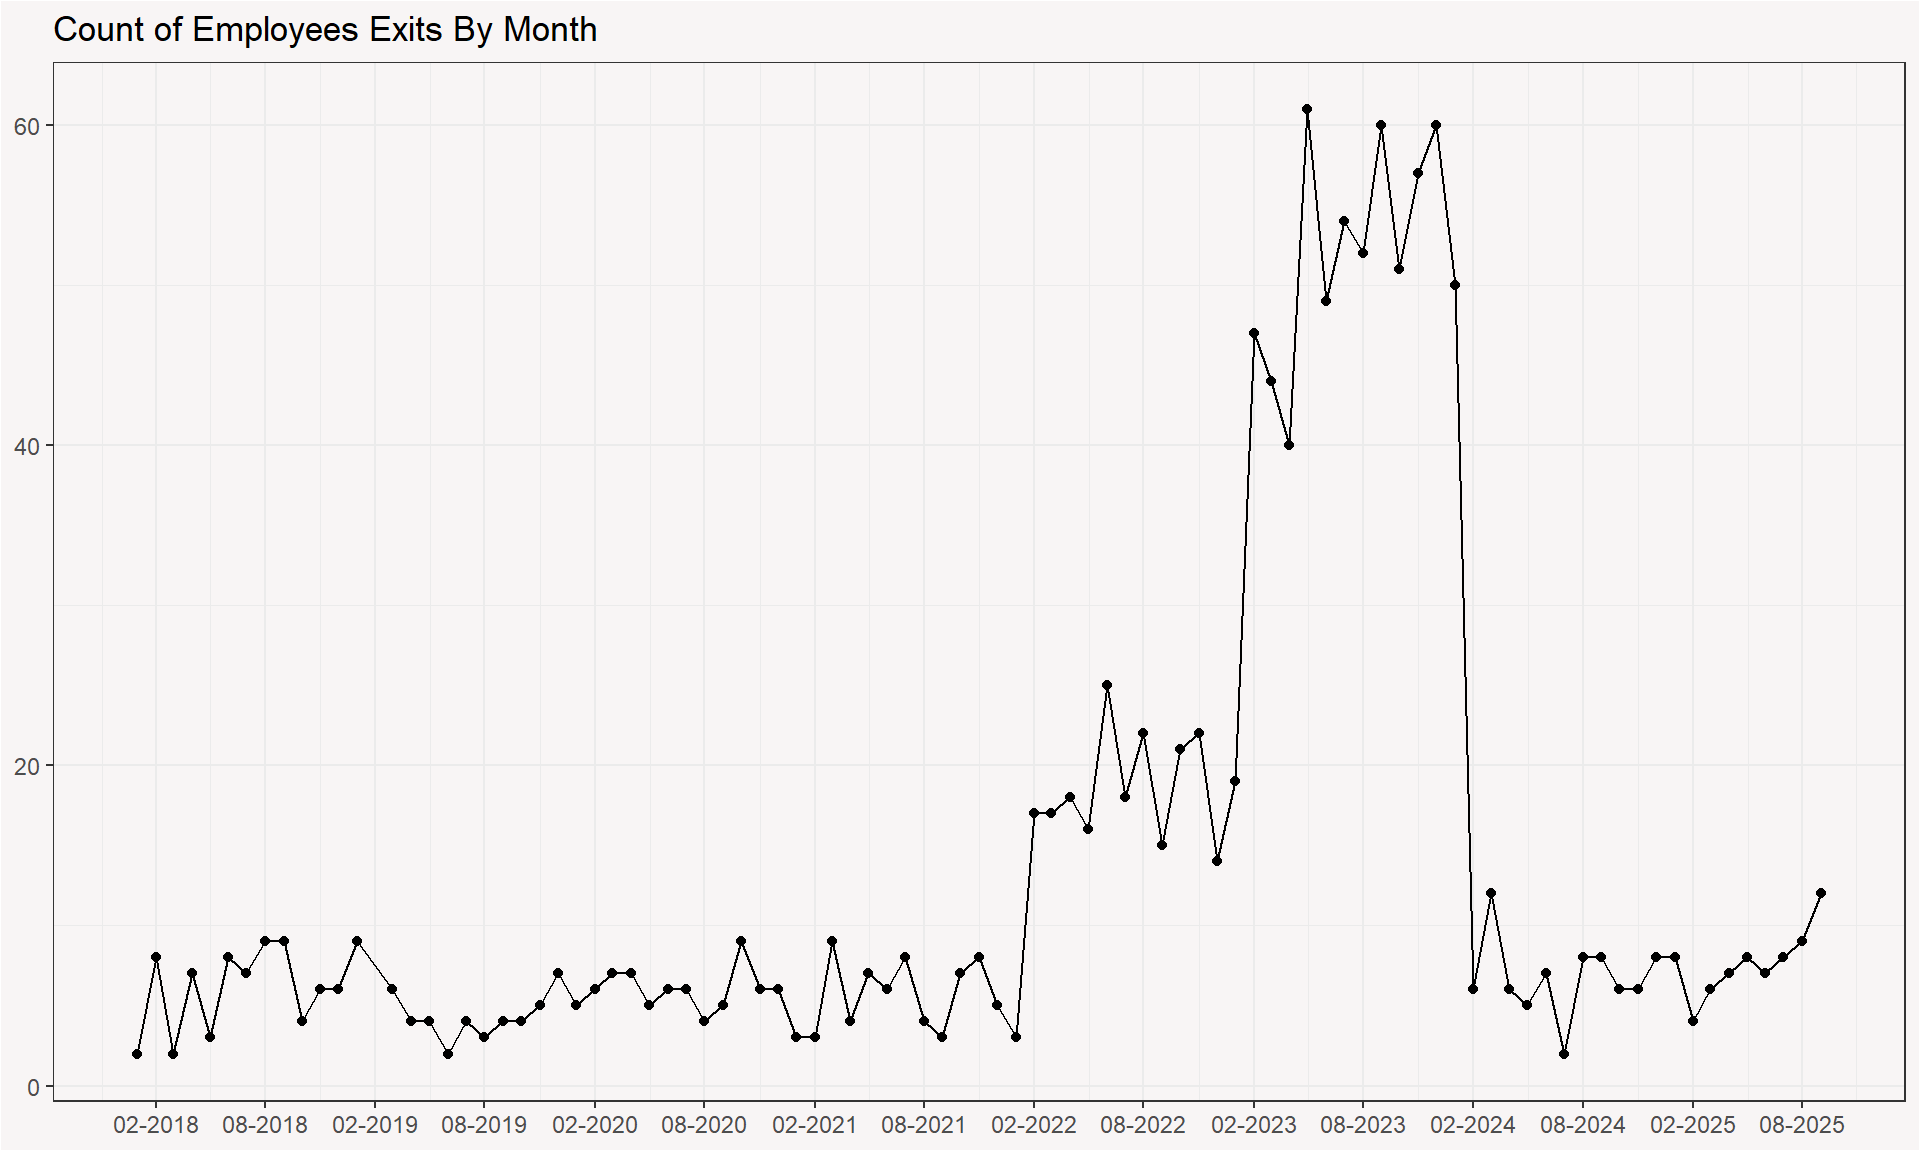
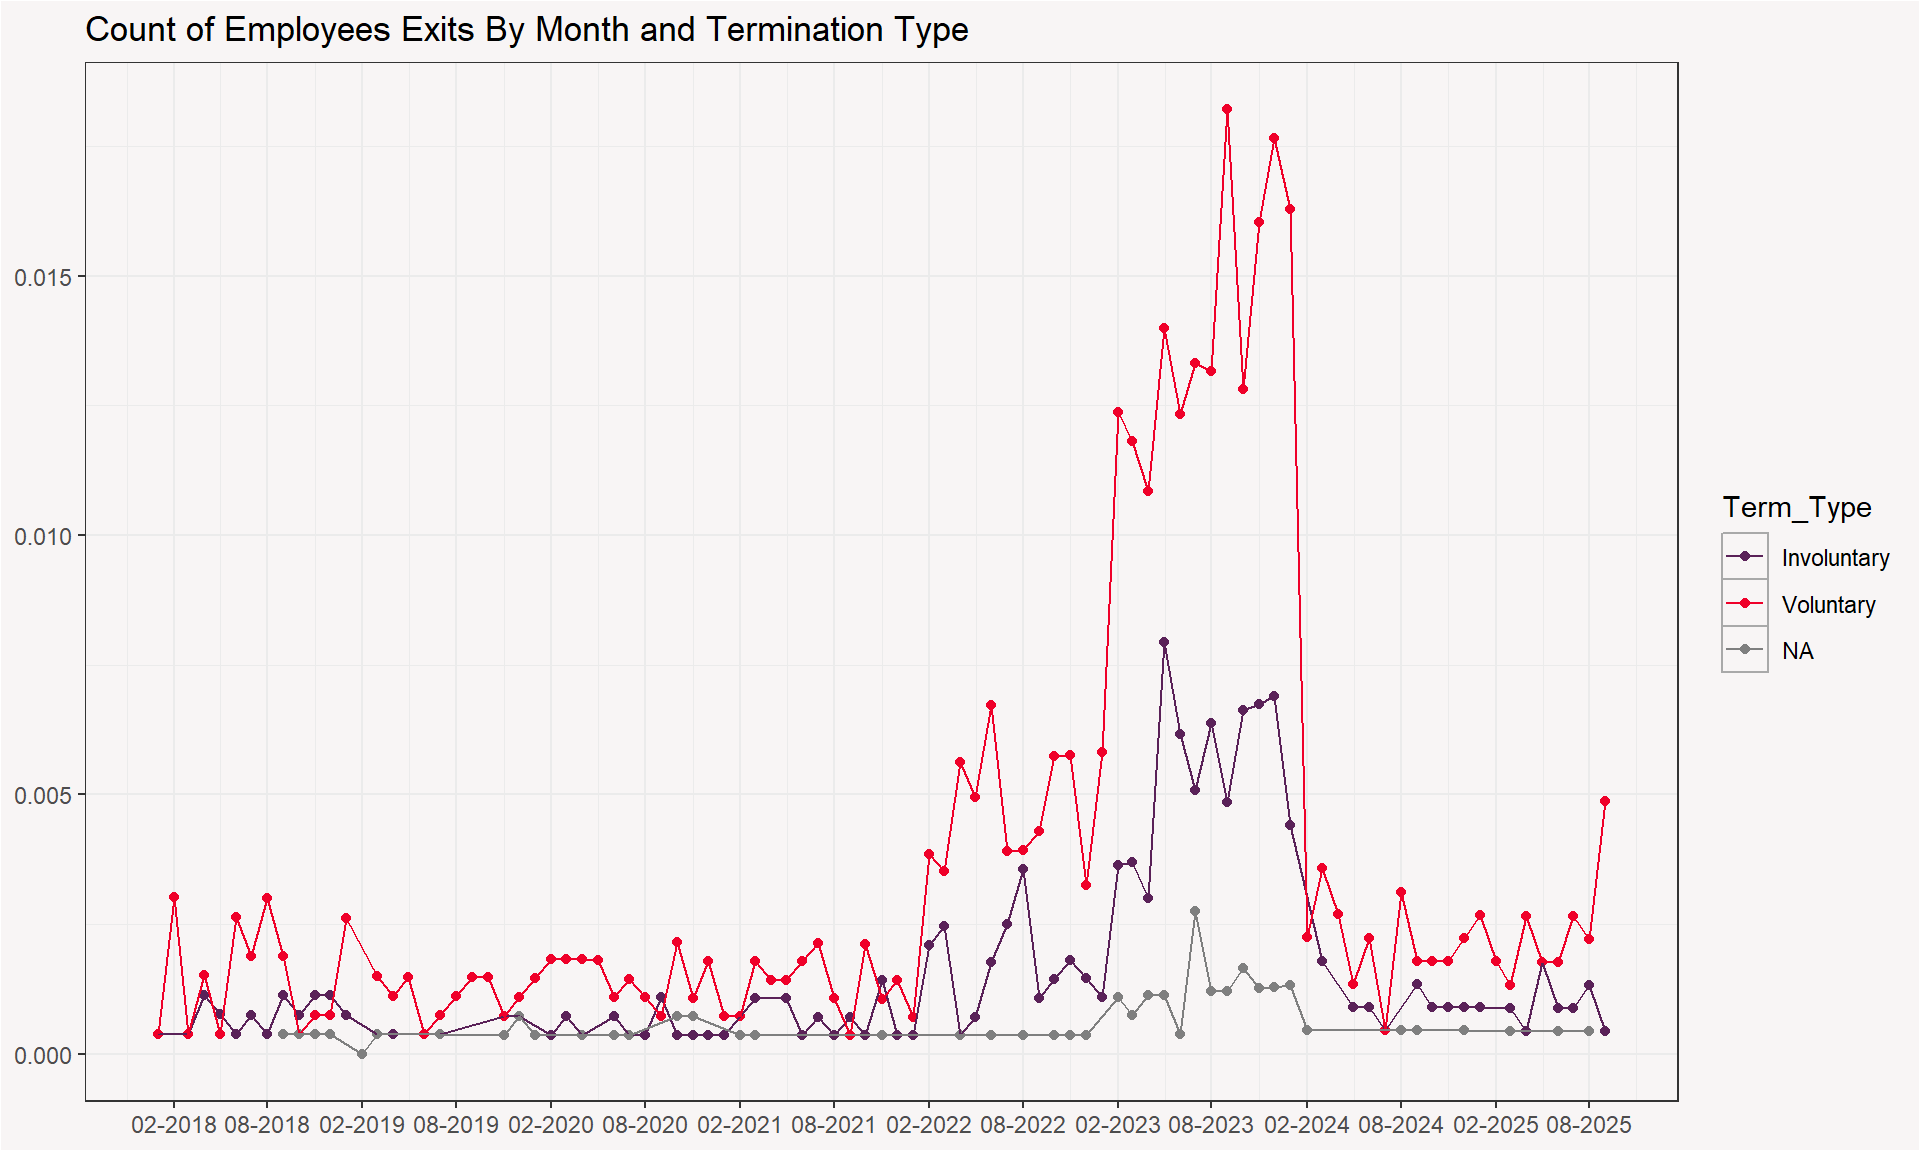
added table and trended exit view

diff --git a/_site/turnover.html b/_site/turnover.html
@@ -212,7 +212,7 @@ pre > code.sourceCode > span > a:first-child::before { text-decoration: underlin
 <div class="cell-output-display">
 <div class="quarto-figure quarto-figure-center">
 <figure class="figure">
-<p><img src="turnover_files/figure-html/unnamed-chunk-2-1.png" class="quarto-figure quarto-figure-center figure-img" style="width:100.0%;height:40.0%"></p>
+<p><img src="turnover_files/figure-html/exit-trend-1.png" class="quarto-figure quarto-figure-center figure-img" style="width:100.0%;height:40.0%"></p>
 </figure>
 </div>
 </div>
@@ -225,7 +225,7 @@ pre > code.sourceCode > span > a:first-child::before { text-decoration: underlin
 <div class="cell-output-display">
 <div class="quarto-figure quarto-figure-center">
 <figure class="figure">
-<p><img src="turnover_files/figure-html/unnamed-chunk-3-1.png" class="quarto-figure quarto-figure-center figure-img" style="width:100.0%;height:40.0%"></p>
+<p><img src="turnover_files/figure-html/month-turn-1.png" class="quarto-figure quarto-figure-center figure-img" style="width:100.0%;height:40.0%"></p>
 </figure>
 </div>
 </div>
@@ -247,32 +247,35 @@ pre > code.sourceCode > span > a:first-child::before { text-decoration: underlin
 <span id="cb1-5"><a href="#cb1-5" aria-hidden="true" tabindex="-1"></a></span>
 <span id="cb1-6"><a href="#cb1-6" aria-hidden="true" tabindex="-1"></a>termd <span class="sc">|&gt;</span> <span class="fu">count</span>(Department)</span></code><button title="Copy to Clipboard" class="code-copy-button"><i class="bi"></i></button></pre></div>
 <div class="cell-output cell-output-stdout">
-<pre><code># A tibble: 6 × 2
+<pre><code># A tibble: 7 × 2
   Department          n
   &lt;chr&gt;           &lt;int&gt;
-1 Finance           133
-2 Human Resources    63
-3 IT                250
-4 Marketing          60
-5 Operations        499
-6 Sales             252</code></pre>
+1 Finance           126
+2 Human Resources    59
+3 IT                235
+4 Marketing          57
+5 Operations        468
+6 Sales             241
+7 &lt;NA&gt;               71</code></pre>
 </div>
 <div class="sourceCode cell-code" id="cb3"><pre class="sourceCode r code-with-copy"><code class="sourceCode r"><span id="cb3-1"><a href="#cb3-1" aria-hidden="true" tabindex="-1"></a>termd <span class="sc">|&gt;</span> <span class="fu">count</span>(Location)</span></code><button title="Copy to Clipboard" class="code-copy-button"><i class="bi"></i></button></pre></div>
 <div class="cell-output cell-output-stdout">
-<pre><code># A tibble: 2 × 2
+<pre><code># A tibble: 3 × 2
   Location          n
   &lt;chr&gt;         &lt;int&gt;
-1 Lansing, MI     850
-2 Nashville, TN   407</code></pre>
+1 Lansing, MI     798
+2 Nashville, TN   388
+3 &lt;NA&gt;             71</code></pre>
 </div>
 <div class="sourceCode cell-code" id="cb5"><pre class="sourceCode r code-with-copy"><code class="sourceCode r"><span id="cb5-1"><a href="#cb5-1" aria-hidden="true" tabindex="-1"></a>termd <span class="sc">|&gt;</span> <span class="fu">count</span>(Job_Level)</span></code><button title="Copy to Clipboard" class="code-copy-button"><i class="bi"></i></button></pre></div>
 <div class="cell-output cell-output-stdout">
-<pre><code># A tibble: 3 × 2
+<pre><code># A tibble: 4 × 2
   Job_Level                  n
   &lt;chr&gt;                  &lt;int&gt;
 1 Executive                121
-2 Individual Contributor   879
-3 Management               257</code></pre>
+2 Individual Contributor   808
+3 Management               257
+4 &lt;NA&gt;                      71</code></pre>
 </div>
 <div class="sourceCode cell-code" id="cb7"><pre class="sourceCode r code-with-copy"><code class="sourceCode r"><span id="cb7-1"><a href="#cb7-1" aria-hidden="true" tabindex="-1"></a>termd <span class="sc">|&gt;</span> <span class="fu">count</span>(Associate_Type)</span></code><button title="Copy to Clipboard" class="code-copy-button"><i class="bi"></i></button></pre></div>
 <div class="cell-output cell-output-stdout">
@@ -280,66 +283,72 @@ pre > code.sourceCode > span > a:first-child::before { text-decoration: underlin
   Associate_Type     n
   &lt;chr&gt;          &lt;int&gt;
 1 Regular         1186
-2 Temporary         71</code></pre>
+2 &lt;NA&gt;              71</code></pre>
 </div>
 <div class="sourceCode cell-code" id="cb9"><pre class="sourceCode r code-with-copy"><code class="sourceCode r"><span id="cb9-1"><a href="#cb9-1" aria-hidden="true" tabindex="-1"></a>termd <span class="sc">|&gt;</span> <span class="fu">count</span>(Time_Type)</span></code><button title="Copy to Clipboard" class="code-copy-button"><i class="bi"></i></button></pre></div>
 <div class="cell-output cell-output-stdout">
-<pre><code># A tibble: 2 × 2
+<pre><code># A tibble: 3 × 2
   Time_Type     n
   &lt;chr&gt;     &lt;int&gt;
 1 Full time  1133
-2 Part time   124</code></pre>
+2 Part time    53
+3 &lt;NA&gt;         71</code></pre>
 </div>
 <div class="sourceCode cell-code" id="cb11"><pre class="sourceCode r code-with-copy"><code class="sourceCode r"><span id="cb11-1"><a href="#cb11-1" aria-hidden="true" tabindex="-1"></a>termd <span class="sc">|&gt;</span> <span class="fu">count</span>(FLSA)</span></code><button title="Copy to Clipboard" class="code-copy-button"><i class="bi"></i></button></pre></div>
 <div class="cell-output cell-output-stdout">
-<pre><code># A tibble: 2 × 2
+<pre><code># A tibble: 3 × 2
   FLSA           n
   &lt;chr&gt;      &lt;int&gt;
 1 Exempt       878
-2 Non-Exempt   379</code></pre>
+2 Non-Exempt   308
+3 &lt;NA&gt;          71</code></pre>
 </div>
 <div class="sourceCode cell-code" id="cb13"><pre class="sourceCode r code-with-copy"><code class="sourceCode r"><span id="cb13-1"><a href="#cb13-1" aria-hidden="true" tabindex="-1"></a>termd <span class="sc">|&gt;</span> <span class="fu">count</span>(Race_Ethnicity)</span></code><button title="Copy to Clipboard" class="code-copy-button"><i class="bi"></i></button></pre></div>
 <div class="cell-output cell-output-stdout">
-<pre><code># A tibble: 8 × 2
+<pre><code># A tibble: 9 × 2
   Race_Ethnicity                                n
   &lt;chr&gt;                                     &lt;int&gt;
-1 American Indian or Alaska Native              8
-2 Asian                                       271
-3 Black or African American                   197
-4 Hispanic or Latino                          160
+1 American Indian or Alaska Native              7
+2 Asian                                       255
+3 Black or African American                   192
+4 Hispanic or Latino                          144
 5 Native Hawaiian or Other Pacific Islander     3
-6 Not Specified                                39
-7 Two or More Races                            53
-8 White (Not Hispanic or Latino)              526</code></pre>
+6 Not Specified                                37
+7 Two or More Races                            52
+8 White (Not Hispanic or Latino)              496
+9 &lt;NA&gt;                                         71</code></pre>
 </div>
 <div class="sourceCode cell-code" id="cb15"><pre class="sourceCode r code-with-copy"><code class="sourceCode r"><span id="cb15-1"><a href="#cb15-1" aria-hidden="true" tabindex="-1"></a>termd <span class="sc">|&gt;</span> <span class="fu">count</span>(Gender)</span></code><button title="Copy to Clipboard" class="code-copy-button"><i class="bi"></i></button></pre></div>
 <div class="cell-output cell-output-stdout">
-<pre><code># A tibble: 4 × 2
+<pre><code># A tibble: 5 × 2
   Gender                            n
   &lt;chr&gt;                         &lt;int&gt;
-1 Female                          494
-2 I choose not to self-identify    91
-3 Male                            646
-4 Nonbinary                        26</code></pre>
+1 Female                          463
+2 I choose not to self-identify    84
+3 Male                            615
+4 Nonbinary                        24
+5 &lt;NA&gt;                             71</code></pre>
 </div>
 <div class="sourceCode cell-code" id="cb17"><pre class="sourceCode r code-with-copy"><code class="sourceCode r"><span id="cb17-1"><a href="#cb17-1" aria-hidden="true" tabindex="-1"></a>termd <span class="sc">|&gt;</span> <span class="fu">count</span>(MostRecent_Performance)</span></code><button title="Copy to Clipboard" class="code-copy-button"><i class="bi"></i></button></pre></div>
 <div class="cell-output cell-output-stdout">
-<pre><code># A tibble: 5 × 2
+<pre><code># A tibble: 6 × 2
   MostRecent_Performance                n
   &lt;chr&gt;                             &lt;int&gt;
-1 Below Expectations                  405
-2 Consistently Below Expectations      63
+1 Below Expectations                  385
+2 Consistently Below Expectations      61
 3 Consistently Exceeds Expectations    14
-4 Exceeds Expectations                212
-5 Meets Expectations                  563</code></pre>
+4 Exceeds Expectations                194
+5 Meets Expectations                  532
+6 &lt;NA&gt;                                 71</code></pre>
 </div>
 <div class="sourceCode cell-code" id="cb19"><pre class="sourceCode r code-with-copy"><code class="sourceCode r"><span id="cb19-1"><a href="#cb19-1" aria-hidden="true" tabindex="-1"></a>termd <span class="sc">|&gt;</span> <span class="fu">count</span>(Term_Type)</span></code><button title="Copy to Clipboard" class="code-copy-button"><i class="bi"></i></button></pre></div>
 <div class="cell-output cell-output-stdout">
-<pre><code># A tibble: 2 × 2
+<pre><code># A tibble: 3 × 2
   Term_Type       n
   &lt;chr&gt;       &lt;int&gt;
-1 Involuntary   333
-2 Voluntary     924</code></pre>
+1 Involuntary   322
+2 Voluntary     864
+3 &lt;NA&gt;           71</code></pre>
 </div>
 </div>
 </div>
@@ -349,7 +358,7 @@ pre > code.sourceCode > span > a:first-child::before { text-decoration: underlin
 <div class="cell-output-display">
 <div class="quarto-figure quarto-figure-center">
 <figure class="figure">
-<p><img src="turnover_files/figure-html/unnamed-chunk-5-1.png" class="quarto-figure quarto-figure-center figure-img" style="width:100.0%;height:40.0%"></p>
+<p><img src="turnover_files/figure-html/unnamed-chunk-2-1.png" class="quarto-figure quarto-figure-center figure-img" style="width:100.0%;height:40.0%"></p>
 </figure>
 </div>
 </div>

diff --git a/_site/index.html b/_site/index.html
@@ -168,7 +168,7 @@ ul.task-list li input[type="checkbox"] {
 
 <div class="cell">
 <div class="cell-output cell-output-stdout">
-<pre><code>Presentation last built on: 2025-10-12</code></pre>
+<pre><code>Presentation last built on: 2025-10-13</code></pre>
 </div>
 </div>
 <section id="note-from-phil" class="level1">
@@ -195,13 +195,19 @@ ul.task-list li input[type="checkbox"] {
 <div id="tabset-1-2" class="tab-pane" role="tabpanel" aria-labelledby="tabset-1-2-tab">
 <p>For this analysis we will be using the following data sources:</p>
 <ul>
-<li>HRIS Data - Employee tenure and Demographics</li>
-<li>HRIS Data - Employee Survey Response</li>
-<li>BLS - JOLTS</li>
-<li>BLA - Inflation (Consumer Price Index)</li>
+<li>HRIS Data - Employee tenure and Demographics
+<ul>
+<li>Provided by employeer</li>
+</ul></li>
+<li>HRIS Data - Employee Survey Response
+<ul>
+<li>Provided by employeer</li>
+</ul></li>
+<li><a href="https://www.bls.gov/jlt/">BLS - JOLTS</a></li>
+<li><a href="https://www.bls.gov/cpi/">BLA - Inflation (Consumer Price Index)</a></li>
 <li><a href="https://www.milmi.org/">Michigan Job</a></li>
 <li><a href="https://www.michigan.gov/mdcs/quick-links/workforcereports">Michigan Workforce Reports</a></li>
-<li>Nashville Workforce Reports</li>
+<li><a href="https://www.bls.gov/eag/eag.tn_nashville_msa.htm">Nashville Workforce Reports</a></li>
 </ul>
 </div>
 <div id="tabset-1-3" class="tab-pane" role="tabpanel" aria-labelledby="tabset-1-3-tab">
@@ -219,6 +225,10 @@ ul.task-list li input[type="checkbox"] {
 <li>those with a performance rating of 4 or 5</li>
 </ul></li>
 <li><p>Assuming that employees that are that employees with the effective date of the current job are _____</p></li>
+<li><p>Jackson’s NAICS code is 524113 (designates Direct Life Insurance Carriers)</p>
+<ul>
+<li>falls under the “Finance and Insurance” sector. (Sector 52)</li>
+</ul></li>
 </ul>
 </div>
 <div id="tabset-1-4" class="tab-pane" role="tabpanel" aria-labelledby="tabset-1-4-tab">

diff --git a/_freeze/site_libs/tabwid-1.1.3/tabwid.js b/_freeze/site_libs/tabwid-1.1.3/tabwid.js
@@ -1,0 +1,31 @@
+document.addEventListener("DOMContentLoaded", function(event) {
+  var els = document.querySelectorAll(".tabwid");
+  var tabwid_link = document.querySelector('link[href*="tabwid.css"]')
+  if (tabwid_link === null) {
+    const tabwid_styles = document.evaluate("//style[contains(., 'tabwid')]", document, null, XPathResult.ANY_TYPE, null );
+    tabwid_link = tabwid_styles.iterateNext();
+  }
+
+  Array.prototype.forEach.call(els, function(template) {
+      const dest = document.createElement("div");
+      template.parentNode.insertBefore(dest, template.nextSibling)
+      dest.setAttribute("class", "flextable-shadow-host");
+      const fantome = dest.attachShadow({mode: 'open'});
+      fantome.appendChild(template);
+      if (tabwid_link !== null) {
+        fantome.appendChild(tabwid_link.cloneNode(true));
+      }
+  });
+
+  const shadowHosts = document.querySelectorAll('.flextable-shadow-host:not(:has(div > table.no-shadow-dom))');
+  shadowHosts.forEach(host => {
+    if (host.shadowRoot) {
+      const spanElements = host.shadowRoot.querySelector('div > table > caption > span[id]');
+      if (spanElements) {
+        const id = spanElements.getAttribute("id");
+        host.setAttribute("id", id);
+      }
+    }
+  });
+
+});

diff --git a/_site/site_libs/tabwid-1.1.3/tabwid.js b/_site/site_libs/tabwid-1.1.3/tabwid.js
@@ -1,0 +1,31 @@
+document.addEventListener("DOMContentLoaded", function(event) {
+  var els = document.querySelectorAll(".tabwid");
+  var tabwid_link = document.querySelector('link[href*="tabwid.css"]')
+  if (tabwid_link === null) {
+    const tabwid_styles = document.evaluate("//style[contains(., 'tabwid')]", document, null, XPathResult.ANY_TYPE, null );
+    tabwid_link = tabwid_styles.iterateNext();
+  }
+
+  Array.prototype.forEach.call(els, function(template) {
+      const dest = document.createElement("div");
+      template.parentNode.insertBefore(dest, template.nextSibling)
+      dest.setAttribute("class", "flextable-shadow-host");
+      const fantome = dest.attachShadow({mode: 'open'});
+      fantome.appendChild(template);
+      if (tabwid_link !== null) {
+        fantome.appendChild(tabwid_link.cloneNode(true));
+      }
+  });
+
+  const shadowHosts = document.querySelectorAll('.flextable-shadow-host:not(:has(div > table.no-shadow-dom))');
+  shadowHosts.forEach(host => {
+    if (host.shadowRoot) {
+      const spanElements = host.shadowRoot.querySelector('div > table > caption > span[id]');
+      if (spanElements) {
+        const id = spanElements.getAttribute("id");
+        host.setAttribute("id", id);
+      }
+    }
+  });
+
+});

diff --git a/_freeze/site_libs/tabwid-1.1.3/tabwid.css b/_freeze/site_libs/tabwid-1.1.3/tabwid.css
@@ -1,0 +1,42 @@
+.tabwid {
+  font-size: initial;
+  padding-bottom: 1em;
+}
+
+.tabwid table{
+  border-spacing:0px !important;
+  border-collapse:collapse;
+  line-height:1;
+  margin-left:auto;
+  margin-right:auto;
+  border-width: 0;
+  border-color: transparent;
+  caption-side: top;
+}
+.tabwid-caption-bottom table{
+  caption-side: bottom;
+}
+.tabwid_left table{
+  margin-left:0;
+}
+.tabwid_right table{
+  margin-right:0;
+}
+.tabwid td, .tabwid th {
+    padding: 0;
+}
+.tabwid a {
+  text-decoration: none;
+}
+.tabwid thead {
+    background-color: transparent;
+}
+.tabwid tfoot {
+    background-color: transparent;
+}
+.tabwid table tr {
+background-color: transparent;
+}
+.katex-display {
+    margin: 0 0 !important;
+}

diff --git a/_site/site_libs/tabwid-1.1.3/tabwid.css b/_site/site_libs/tabwid-1.1.3/tabwid.css
@@ -1,0 +1,42 @@
+.tabwid {
+  font-size: initial;
+  padding-bottom: 1em;
+}
+
+.tabwid table{
+  border-spacing:0px !important;
+  border-collapse:collapse;
+  line-height:1;
+  margin-left:auto;
+  margin-right:auto;
+  border-width: 0;
+  border-color: transparent;
+  caption-side: top;
+}
+.tabwid-caption-bottom table{
+  caption-side: bottom;
+}
+.tabwid_left table{
+  margin-left:0;
+}
+.tabwid_right table{
+  margin-right:0;
+}
+.tabwid td, .tabwid th {
+    padding: 0;
+}
+.tabwid a {
+  text-decoration: none;
+}
+.tabwid thead {
+    background-color: transparent;
+}
+.tabwid tfoot {
+    background-color: transparent;
+}
+.tabwid table tr {
+background-color: transparent;
+}
+.katex-display {
+    margin: 0 0 !important;
+}
